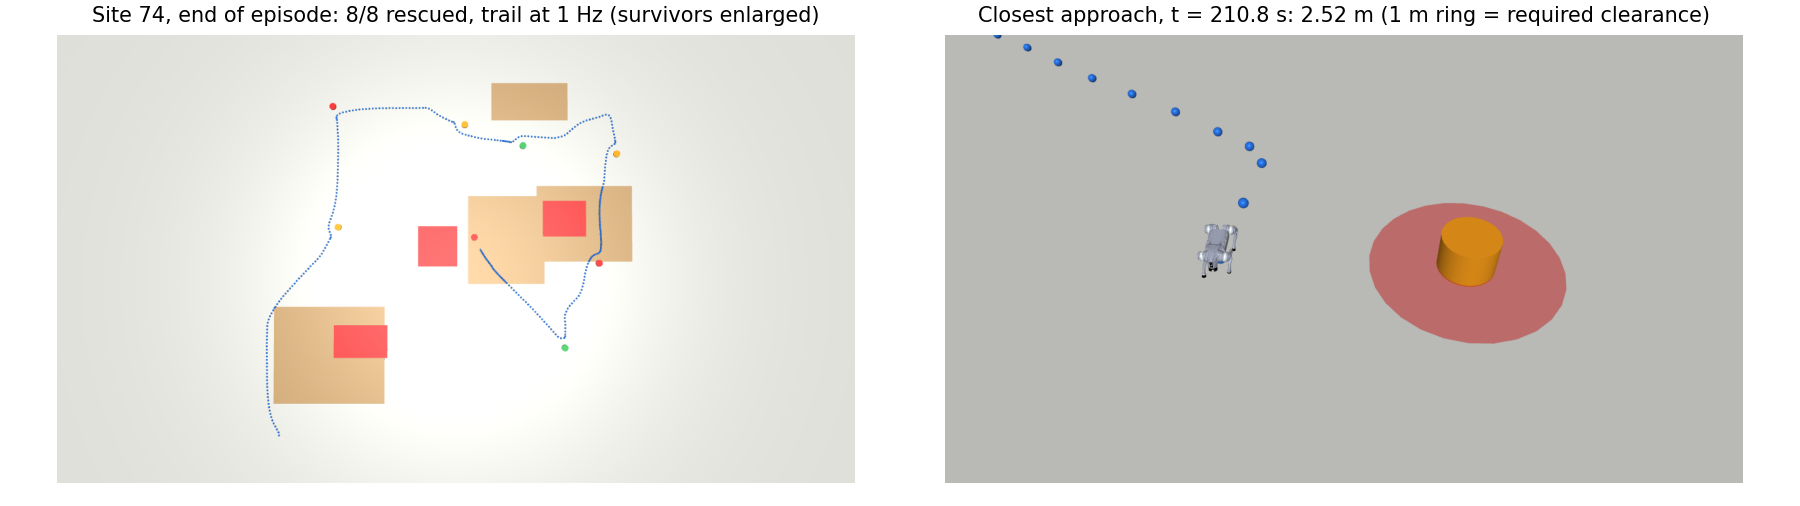
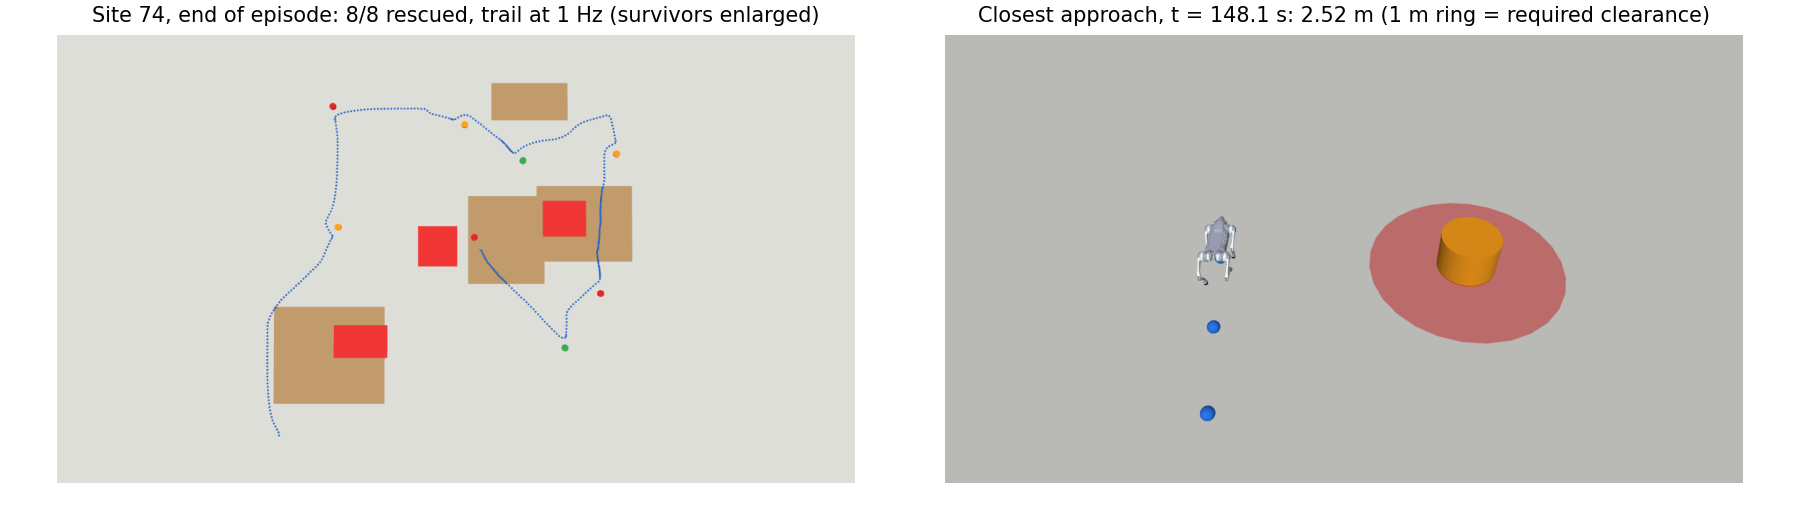
Update the MuJoCo results with the fixed stack and add report figures

diff --git a/README.md b/README.md
@@ -63,7 +63,8 @@ Full Go2 model in MuJoCo with a learned locomotion policy (initial results, [bel
 
 - `mj_plant.py`: the Go2 robot model and learned velocity policy that `unitree_rl_mjlab` trains, rebuilt in plain MuJoCo, as an optional plant behind `ctrl_sim.py` (`run_episode_ctrl(..., plant=Go2MujocoPlant())`, or `plant="mujoco"` in an experiment job); the unicycle stays the default
 - `sim/go2/`: the trained policy (`policy.onnx`), its training configs and the robot model
-- `scripts/mj_calibrate.py` (tracking and the tracking-error pad), `mj_run_q3.py`, `mj_run_conf.py`, `mj_cbf_stress.py` (Q3 checks on both plants), `render_mj.py` (figures in `figures/mujoco/`)
+- `scripts/mj_calibrate.py` (tracking and the tracking-error pad), `mj_run_q3.py`, `mj_run_conf.py`, `mj_cbf_stress.py` (Q3 checks on both plants), `render_mj.py` (all figures in `figures/mujoco/`), `diag_stall.py` (stack-state log of episodes that stop making progress)
+- Two stack fixes found on the Go2, on by default: the route goes around survivors' safety regions (`StackConfig.route_around_regions`), and missed detections lower a confirmed track's existence (`StackConfig.forget_stale_tracks`); see [Planner fixes](#planner-fixes-found-on-the-go2). The Q3-Q5 closed-loop tables predate them (Q1-Q2 do not use this stack)
 
 ## Results
 
@@ -327,13 +328,15 @@ Both filters eliminate clearance violations. The closed-loop controller is the d
 
 ## MuJoCo Go2 with a learned locomotion policy (initial results)
 
-The results above use a reduced-order unicycle as the robot. Here the same stack drives a full Go2 model in MuJoCo, walking with a learned locomotion policy. The proposal planned this in Isaac Sim / Isaac Lab; it was done in MuJoCo instead, with the policy trained in mjlab (MuJoCo Warp). These are first results on fewer sites than the tables above (40 and 20 instead of 100), reported as means without paired confidence intervals.
+The results above use a reduced-order unicycle as the robot. Here the same stack drives a full Go2 model in MuJoCo, walking with a learned locomotion policy. The proposal planned this in Isaac Sim / Isaac Lab; it was done in MuJoCo instead, with the policy trained in mjlab (MuJoCo Warp). These are first results on fewer sites than the tables above (40 and 20 instead of 100).
+
+Running the stack on the Go2 exposed a planner deadlock and a belief bug, both fixed below ([Planner fixes](#planner-fixes-found-on-the-go2)). Every number in this section uses the fixed stack, on both plants. **The Q3-Q5 closed-loop tables in the sections above were produced before these fixes** and have not been re-run (Q1-Q2 do not use this stack).
 
 **Setup.**
 - **Policy.** `Unitree-Go2-Flat` from [`unitree_rl_mjlab`](https://github.com/unitreerobotics/unitree_rl_mjlab): velocity tracking, PPO, 3000 iterations with 4096 environments (about 295M steps, 1 h 23 min on one laptop RTX 5070 Ti under WSL2). At the end of training, episodes ran the full 20 s with almost no falls.
 - **Plant.** `rescue/mj_plant.py` rebuilds the training robot in MuJoCo 3.5.0 (position actuators with the training gains, feet-only collision, the training solver settings) and runs the exported policy at 50 Hz on 200 Hz physics. Joint order, default pose, gains, action scale and the observation layout are read from, and checked against, the policy file's metadata.
-- **Interface.** The stack's 10 Hz `(v, omega)` command becomes the policy's velocity command, clipped to its training range (forward speed -0.5 to 1.0 m/s, yaw rate +/-1.0 rad/s; the unicycle allowed 1.5 rad/s), and the pose comes back from the simulated robot.
-- **Unchanged.** The drone detections (`drone_prior.py` noise model), survivors, sensing and the whole stack. The ground is a flat plane; rubble remains a speed cap in the stack, not physical terrain.
+- **Interface.** The stack's 10 Hz `(v, omega)` command becomes the policy's velocity command, clipped to its training range (forward speed -0.5 to 1.0 m/s, yaw rate +/-1.0 rad/s), and the pose comes back from the simulated robot. On this plant the planner and filter also plan with the 1.0 rad/s turn rate (the unicycle uses 1.5).
+- **Unchanged.** The drone detections (`drone_prior.py` noise model), survivors and sensing. The ground is a flat plane; rubble remains a speed cap in the stack, not physical terrain.
 
 ![The Go2 walking at 1.0 m/s in MuJoCo, one gait cycle](figures/mujoco/go2_walk.png)
 
@@ -347,6 +350,10 @@ The results above use a reduced-order unicycle as the robot. Here the same stack
 | --- | --- | --- | --- | --- | --- | --- |
 | Achieved | 0.25 m/s | 0.54 m/s | 0.91 m/s | 0.43 rad/s | 0.95 rad/s | -1.00 rad/s |
 
+![Command tracking, Go2 vs. the unicycle](figures/mujoco/go2_tracking.png)
+
+**Figure 11.** A sequence of speed and turn commands, sent at 10 Hz as the stack sends them, on both plants. The Go2's speed ripples with its gait and settles below the command; it stops faster than the unicycle's 1 m/s^2 limit.
+
 **Tracking-error pad.** This is the same measurement as `safety.calibrate_tracking_error`: the gap between where the robot ends up and where the planner's ideal unicycle would be, after 1 s of random constant commands (400 samples, no falls).
 
 **Table 14.** Tracking error after 1 s.
@@ -358,39 +365,72 @@ The results above use a reduced-order unicycle as the robot. Here the same stack
 
 The pad in use, 0.25 m, covers the Go2's 95% gap, so it was left unchanged.
 
-**Q3 on both plants** (`scripts/mj_run_q3.py`, 40 sites, sigma_meas 0.5 m, confidence 0.7, same sites and drone detections on both).
+### Q3 on both plants
+
+`scripts/mj_run_q3.py`: 40 sites, sigma_meas 0.5 m, confidence 0.7, the same sites and drone detections on both plants.
 
 **Table 15.** Q3 on the unicycle and on the MuJoCo Go2.
 
 | Plant | Variant | Score | Rescue rate | Episodes with clearance violation | Min. distance (m) | Falls |
 | --- | --- | --- | --- | --- | --- | --- |
-| Unicycle | full | 0.781 | 0.94 | 0.00 | 2.42 | - |
-| MuJoCo Go2 | full | 0.716 | 0.91 | 0.00 | 2.42 | 0 |
-| Unicycle | no filter | 0.787 | 0.93 | 0.50 | 0.05 | - |
-| MuJoCo Go2 | no filter | 0.730 | 0.94 | 0.50 | 0.18 | 0 |
+| Unicycle | full | 0.775 | 0.93 | 0.00 | 2.42 | - |
+| MuJoCo Go2 | full | 0.716 | 0.93 | 0.00 | 2.41 | 0 |
+| Unicycle | no filter | 0.788 | 0.93 | 0.50 | 0.05 | - |
+| MuJoCo Go2 | no filter | 0.726 | 0.94 | 0.53 | 0.07 | 0 |
 
-- **Safety carries over.** With the filter, no episode had a violation on either plant; without it, half did on both.
-- **The legged robot costs score.** About 0.065 lower, consistent with it walking slower than the search layer's travel-time estimates assume.
-- **Closest approaches match.** Per site, the Go2's closest approach is within 0.03 m of the unicycle's on average (0.12 m at most).
+- **Safety carries over.** With the filter, no episode had a violation on either plant; without it, about half did on both.
+- **The legged robot costs score, the filter does not.** Paired by site, the Go2 scores 0.059 +/- 0.018 below the unicycle with the filter and 0.062 +/- 0.020 below it without, so the gap comes from the plant, not the filter. It rescues as many survivors; it gets to them later, because it walks slower than the search layer's travel-time estimates assume. The filter's own cost is within noise on both plants (-0.013 +/- 0.017 on the unicycle, -0.010 +/- 0.023 on the Go2).
+- **Closest approaches match.** With the filter, the Go2's closest approach per site is within 0.06 m of the unicycle's on average (0.30 m at most).
+
+![Site 0 on the Go2, with and without the safety filter](figures/mujoco/go2_q3_site_000.png)
+
+**Figure 12.** Site 0 on the Go2, same detections, each run at its closest approach to a survivor, with the 1 m required-clearance ring. Without the filter the robot walks to within 0.15 m of the survivor; with it, it stays 2.53 m away. Both runs rescue all 6 survivors.
 
 ![Site 74 on the MuJoCo Go2](figures/mujoco/go2_site_074.png)
 
-**Figure 11.** Site 74, the site of the unicycle rollout figure ([`rollout_site_074.png`](figures/closed_loop/rollout_site_074.png)), run by the full stack on the MuJoCo Go2. Left: end of the episode, with the robot's trail at 1 Hz (rubble tan, hazards red, survivors colored by class). Right: the closest approach to a survivor, with the 1 m required clearance ring. The overlays are drawn for the figure and have no physics.
+**Figure 13.** Site 74, the site of the unicycle rollout figure ([`rollout_site_074.png`](figures/closed_loop/rollout_site_074.png)), run by the full stack on the MuJoCo Go2. Left: the whole episode from above, with the robot's trail at 1 Hz (rubble tan, hazards red, survivors colored by class and drawn enlarged). Right: the closest approach to a survivor, with the 1 m ring. All 8 survivors rescued. Overlays are drawn for the figure and have no physics.
 
-**Smaller safety regions** (`scripts/mj_run_conf.py`, 20 sites, sigma_meas 1.0 m, filter on, 240 episodes). No episode had a violation in any setting on either plant. The closest approach stayed at least 1.97 m in every setting, so the margins did not get thin enough for the tracking-error pad to matter. The pad moves the closest approach out by about its own size.
+![The Go2 walking up to a survivor at site 74](figures/mujoco/go2_rescue_074.png)
+
+**Figure 14.** The first rescue at site 74: the Go2 walks in at the commanded 1 m/s, the stack slows it as it nears its standoff, and the survivor counts as reached at 3.5 m (green ring: rescue radius; red ring: 1 m clearance).
+
+### Planner fixes found on the Go2
+
+In the first Go2 runs, site 6 rescued 1 of 8 survivors against 8 of 8 on the unicycle, without the robot falling. Logging the stack's internal state at every step showed the cause, and checking the fix on other sites turned up a second bug.
+
+1. **Deadlock at a rescued survivor.** After rescuing a survivor at 31 s, the next target lay 41 m away on the far side of it. The route (a grid path) ran straight through the rescued survivor's keep-out region, which the MPC only treats as a soft cost. The Go2, planned with a 1.5 rad/s turn rate it cannot follow, was still at the region's edge when the MPC started going around, and from there every 2 s rollout cost more than standing still. It stood still for 516 s. The safety filter never intervened and the robot was never inside a region. **Fix:** the route goes around other survivors' regions and rescued survivors' keep-outs (`StackConfig.route_around_regions`), and on the Go2 the stack plans with the turn rate the policy can follow.
+2. **Waiting for a survivor who has left.** With the route fix, two sites at sigma_meas 1 m (16 and 18) stalled in a new way. A frightened survivor walked away faster than the robot's slow final approach, left sensor range, and its track stayed where it was last seen. A confirmed track never lost existence probability, and a rule that keeps the current target while the robot is within 4 m of it ("finish the survivor being handled") held the robot at that empty standoff for the rest of the episode. **Fix:** missed detections now lower a confirmed track's existence too (`StackConfig.forget_stale_tracks`), and the hold rule lets go once the track has faded. A re-detection restores the track at once.
+
+Both are on by default; setting either flag to `False` restores the old behavior. `tests/test_stack.py` rebuilds the site 6 situation from the logged state and checks that the robot now gets past the survivor; `tests/test_belief.py` checks that a confirmed track fades when nobody is there. `scripts/diag_stall.py` reruns the affected sites with the old stack, the route fix alone and both fixes: site 16 went from 1/6 (route fix alone) to 6/6, site 18 from 2/7 to 7/7.
+
+![Site 6 on the Go2, before and after the fixes](figures/mujoco/go2_site_006.png)
+
+**Figure 15.** Site 6 on the Go2. Left: the fixed planner's path (blue, all 8 rescued) and the old planner's path until it stops (orange; the two coincide for the first 30 s, so it shows only near the start). Right: the old planner standing still next to the survivor it had just rescued, with the next target on the far side.
+
+Across all 400 episodes of Tables 15 and 16, the fixes left every mean within noise (paired against the same runs before the fixes: changes between -0.024 and +0.043, all intervals including zero) and changed no safety result. Single sites still move in both directions, as expected once two runs' paths diverge. One unicycle site (32) lost a survivor it had found before: the robot searched for 425 s without a track for it, most likely because two nearby survivors shared one track and the track went when the first was rescued. That association weakness predates the fixes and is not addressed.
+
+### Smaller safety regions
+
+`scripts/mj_run_conf.py`: 20 sites, sigma_meas 1.0 m, filter on, 240 episodes. No episode had a violation in any setting on either plant. The closest approach stayed at least 2.08 m, so the margins never got thin enough for the tracking-error pad to matter; the pad moves the closest approach out by about its own size.
 
 **Table 16.** Smaller safety regions, pad on and off.
 
 | Confidence | Pad (m) | Score, unicycle | Score, Go2 | Min. distance, unicycle (m) | Min. distance, Go2 (m) |
 | --- | --- | --- | --- | --- | --- |
-| 0.5 | 0 | 0.655 | 0.606 | 1.97 | 2.01 |
-| 0.5 | 0.25 | 0.652 | 0.594 | 2.21 | 2.22 |
-| 0.7 | 0 | 0.650 | 0.562 | 2.16 | 2.16 |
-| 0.7 | 0.25 | 0.627 | 0.575 | 2.39 | 2.40 |
-| 0.9 | 0 | 0.643 | 0.600 | 2.47 | 2.46 |
-| 0.9 | 0.25 | 0.626 | 0.607 | 2.63 | 2.66 |
+| 0.5 | 0 | 0.643 | 0.630 | 2.08 | 2.09 |
+| 0.5 | 0.25 | 0.628 | 0.600 | 2.33 | 2.35 |
+| 0.7 | 0 | 0.677 | 0.597 | 2.20 | 2.28 |
+| 0.7 | 0.25 | 0.642 | 0.619 | 2.48 | 2.43 |
+| 0.9 | 0 | 0.637 | 0.604 | 2.47 | 2.46 |
+| 0.9 | 0.25 | 0.613 | 0.593 | 2.64 | 2.71 |
 
-**Head-on stress test** (`scripts/mj_cbf_stress.py`). A controller walks the robot straight at a survivor whose position is known exactly, at 0.5 or 1.0 m/s, and the safety filter is the only thing that stops it. The filter guarantees a distance of at least the 1 m clearance plus the pad (for the model it assumes), and head-on it should stop 0.5 m beyond the clearance plus the pad (its barrier sits 0.25 m ahead of the robot with another 0.25 m of margin). Six runs per row.
+![Closest approach in the smaller-region sweep](figures/mujoco/go2_conf_clearance.png)
+
+**Figure 16.** Closest approach to any survivor over the 20 sites, per setting and plant, against the 1 m required clearance.
+
+### Head-on stress test
+
+`scripts/mj_cbf_stress.py`. A controller walks the robot straight at a survivor whose position is known exactly, at 0.5 or 1.0 m/s, and the safety filter is the only thing that stops it. The filter guarantees a distance of at least the 1 m clearance plus the pad (for the model it assumes), and head-on it should stop 0.5 m beyond the clearance plus the pad (its barrier sits 0.25 m ahead of the robot with another 0.25 m of margin). Six runs per row. This test uses the filter alone, so the planner fixes do not affect it.
 
 **Table 17.** Head-on stress test, 0.5 and 1.0 m/s pooled.
 
@@ -403,18 +443,24 @@ The values are the same at both speeds to within 0.01 m. The Go2 stops about 0.1
 
 ![Head-on stress test on the MuJoCo Go2](figures/mujoco/go2_cbf_headon.png)
 
-**Figure 12.** Head-on stress test at 1.0 m/s with the pad on. Rings: 1.0 m required clearance (red) and the filter's 1.25 m bound (orange).
+**Figure 17.** Head-on stress test at 1.0 m/s with the pad on. Rings: 1.0 m required clearance (red) and the filter's 1.25 m bound (orange).
 
-**Answer so far.** The Q3 safety result carries over to a legged robot with a learned locomotion policy. The filter kept every episode violation-free, and the measured tracking error (0.19 m at 95%) is within the pad already in use. The cost is a lower rescue score, because the robot walks slower than commanded.
+![Head-on paths, both plants](figures/mujoco/go2_headon_paths.png)
+
+**Figure 18.** The same test from above, six starting headings per plant (dots: where each run stopped).
+
+### Answer so far
+
+The Q3 safety result carries over to a legged robot with a learned locomotion policy: the filter kept every episode violation-free on both plants, and the measured tracking error (0.19 m at 95%) is within the pad already in use. The Go2 scores about 0.06 lower than the unicycle, with or without the filter, because it walks slower than commanded. Running on the Go2 also found two stack bugs that could stop the robot for the rest of an episode; both are fixed.
 
 **Not yet tested:**
 - an abrupt case, such as a survivor's estimate jumping close to the robot at full speed (the head-on test brakes gradually, and every run ended up approaching head-on);
 - physical rubble (the policy was trained on flat ground);
-- paired confidence intervals and the 100-site configuration of the main Q3 tables.
+- the 100-site configuration of the main Q3 tables, and the Q3-Q5 tables re-run with the fixed stack.
 
 ## Limitations
 
-Survivors are a crude stand-in for people: three states, constant-speed motion, a fixed response model, and handling times, decay rates and self-evacuation that are modelling choices. The Q4 triage effect is small (+0.004 +/- 0.004 pooled over 700 sites, not detectable at 200 or at 500 fresh sites) and could exist only when the robot is capacity-limited and state sets the handling time; it should not be read as a measured benefit for real triage. Locomotion in the main results is a reduced-order unicycle with a measured tracking-error pad. A full Go2 model with a learned policy has been added in MuJoCo (not Isaac Sim, as proposed) and checked for Q3 only, on flat ground with rubble kept as a speed cap (see above). The drone detector is parametric noise, not image-derived. The oracle for Q3-Q4 uses survivors' initial positions. The lower-confidence safety result (zero violations at 0.5-0.7) depends on the 1 m clearance and the fixed margins and was checked at three confidence levels and two noise levels, not at every setting. The Q5 observers are simulated people (the learned one is trained on synthetic walkers), not human subjects.
+Survivors are a crude stand-in for people: three states, constant-speed motion, a fixed response model, and handling times, decay rates and self-evacuation that are modelling choices. The Q4 triage effect is small (+0.004 +/- 0.004 pooled over 700 sites, not detectable at 200 or at 500 fresh sites) and could exist only when the robot is capacity-limited and state sets the handling time; it should not be read as a measured benefit for real triage. Locomotion in the main results is a reduced-order unicycle with a measured tracking-error pad. A full Go2 model with a learned policy has been added in MuJoCo (not Isaac Sim, as proposed) and checked for Q3 only, on 40 and 20 sites, on flat ground with rubble kept as a speed cap (see above). Two stack fixes made for it (routing around safety regions, letting confirmed tracks fade) are not reflected in the Q3-Q5 closed-loop tables, which were not re-run. Detections are matched to tracks with a wide gate, so two nearby survivors can share one track and one of them can be lost when the other is rescued. The drone detector is parametric noise, not image-derived. The oracle for Q3-Q4 uses survivors' initial positions. The lower-confidence safety result (zero violations at 0.5-0.7) depends on the 1 m clearance and the fixed margins and was checked at three confidence levels and two noise levels, not at every setting. The Q5 observers are simulated people (the learned one is trained on synthetic walkers), not human subjects.
 
 ## Layout
 
@@ -447,6 +493,7 @@ scripts/render_rollout.py, render_pipeline.py   # filtered vs. unfiltered rollou
 scripts/ctrl_run_consistency.py   # closed-loop sim vs. the frozen Q1 trends
 scripts/ctrl_stats.py, ctrl_plot.py   # paired-difference tables and figures
 scripts/mj_calibrate.py, mj_run_q3.py, mj_run_conf.py, mj_cbf_stress.py, render_mj.py   # MuJoCo Go2 checks and figures
+scripts/diag_stall.py   # logs the stack's state in episodes that stall (old stack vs. the fixes)
 tests/
 docs/INTERFACES.md
 ```
@@ -480,7 +527,8 @@ PYTHONPATH=. python scripts/mj_calibrate.py      # tracking checks and the track
 PYTHONPATH=. python scripts/mj_run_q3.py 40      # Q3 on both plants -> runs/mj_q3.csv
 PYTHONPATH=. python scripts/mj_run_conf.py 20    # smaller safety regions, pad on/off -> runs/mj_conf.csv
 PYTHONPATH=. python scripts/mj_cbf_stress.py     # head-on stress test of the filter
-PYTHONPATH=. python scripts/render_mj.py         # -> figures/mujoco/
+PYTHONPATH=. python scripts/render_mj.py         # -> figures/mujoco/ (five 600 s Go2 episodes in parallel)
+PYTHONPATH=. python scripts/diag_stall.py        # stack-state log of the sites that stalled before the fixes
 ```
 
 Retraining the policy (Linux or WSL2, NVIDIA GPU): clone `unitree_rl_mjlab`, `pip install -e .` in a Python 3.11 environment, pin `mujoco==3.5.0` and `warp-lang==1.12.0` (the versions pip picks by default break mjlab 1.2.0), `pip install scipy`, then `python scripts/train.py Unitree-Go2-Flat --env.scene.num-envs=4096 --agent.logger tensorboard --agent.max-iterations 3000`. The exported `policy.onnx` lands in `logs/rsl_rl/go2_velocity/<run>/`.
